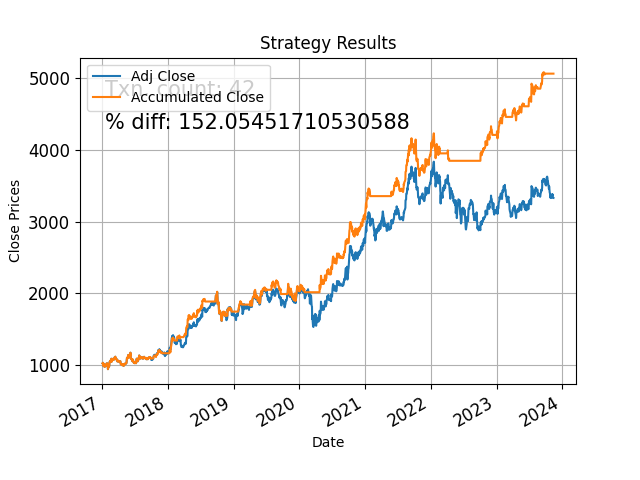
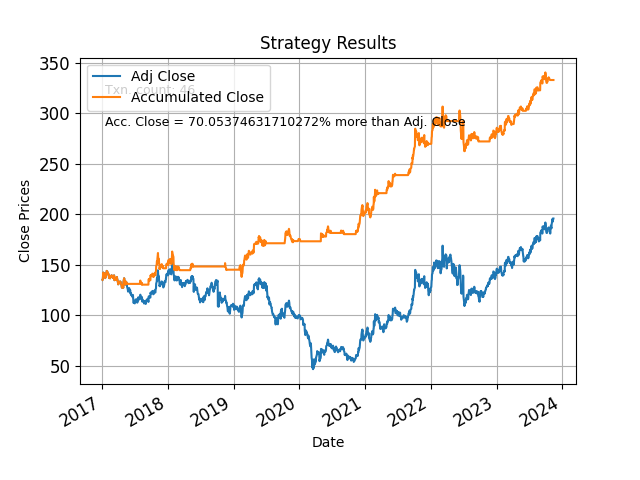
Modifications - Small modifications in draw.py

diff --git a/draw.py b/draw.py
@@ -131,8 +131,10 @@ def strategy_results(df, title="Strategy Results"):
     # print df.tail(1)
     last_row = df.tail(1)
 
-    result_series = last_row["Accumulated Close"] / last_row["Adj Close"]
-    pct_change = result_series.values[0] * 100
+    result_series = (last_row["Accumulated Close"] - last_row["Adj Close"]) / last_row[
+        "Adj Close"
+    ]
+    pct_more = result_series.values[0] * 100
     txn_count = df["Stance"].diff().value_counts().drop([0]).sum()
 
     ax = df[["Adj Close", "Accumulated Close"]].plot(title=title, fontsize=12)
@@ -143,7 +145,7 @@ def strategy_results(df, title="Strategy Results"):
         0.05,
         0.9,
         "Txn. count: " + str(txn_count),
-        fontsize=15,
+        fontsize=9,
         ha="left",
         va="center",
         transform=ax.transAxes,
@@ -151,8 +153,8 @@ def strategy_results(df, title="Strategy Results"):
     plt.text(
         0.05,
         0.8,
-        "% diff: " + str(pct_change),
-        fontsize=15,
+        "Acc. Close = " + str(pct_more) + "% more than Adj. Close",
+        fontsize=9,
         ha="left",
         va="center",
         transform=ax.transAxes,

diff --git a/Demo.py b/Demo.py
@@ -10,7 +10,7 @@ def test_run():
     endDate = datetime.date(2023, 11, 15)
     # endDate = datetime.date.today()
     # df = fetcher.get_data_for_symbol("ONGC", "ONGC.NS", startDate, endDate)
-    df = fetcher.__download_data(["TCS.NS"], startDate, endDate)
+    df = fetcher.__download_data(["ONGC.NS"], startDate, endDate)
     print(df.tail(1))
 
     # strategy.RSI(df)

diff --git a/README.md b/README.md
@@ -12,6 +12,14 @@ The overview is as follows:
 - Plot graph of portfolio growth , showing the original prices, versus the portfolio value if you trade by the signals.
 - Fine-tune the strategy, run the code again, make money, and then make some more !!
 
+A typical plot for Bollinger-band based strategy:
+
+<img src="https://github.com/Santhosh-Shivan/Backtesting/blob/main/images/Figure_1.png">
+
+Signals for the above strategy:
+
+<img src="https://github.com/Santhosh-Shivan/Backtesting/blob/main/images/Figure_2.png">
+
 This uses Pandas, NumPy, MatPlotLib, and a host of other python libraries.
 
 
